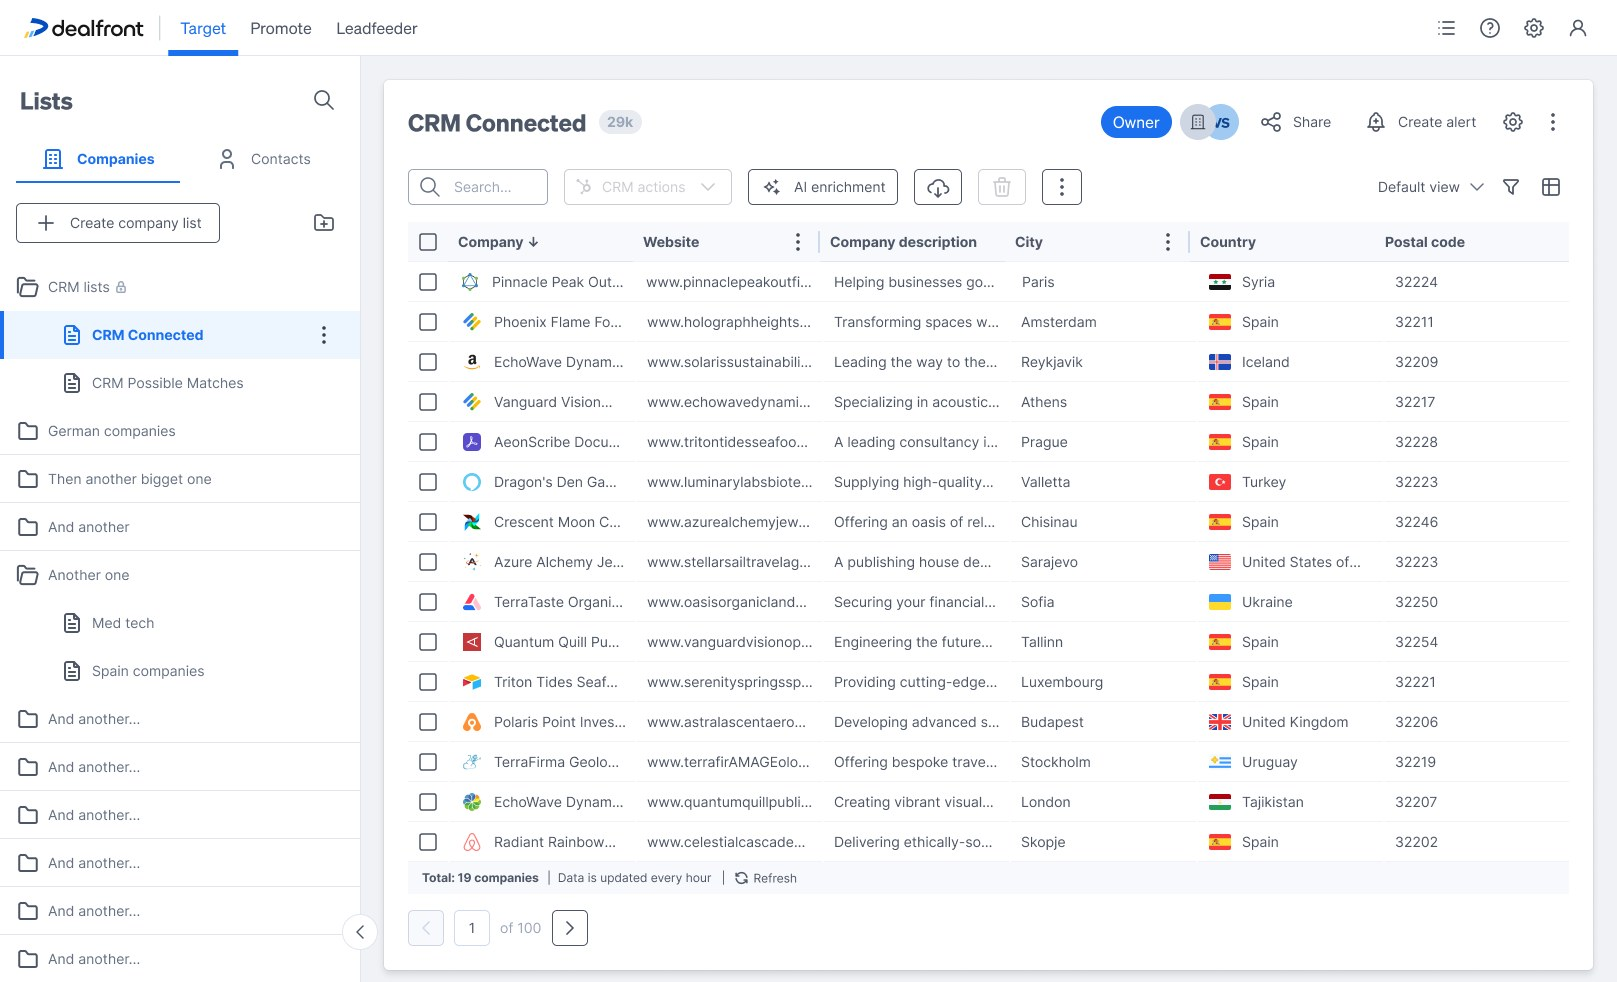
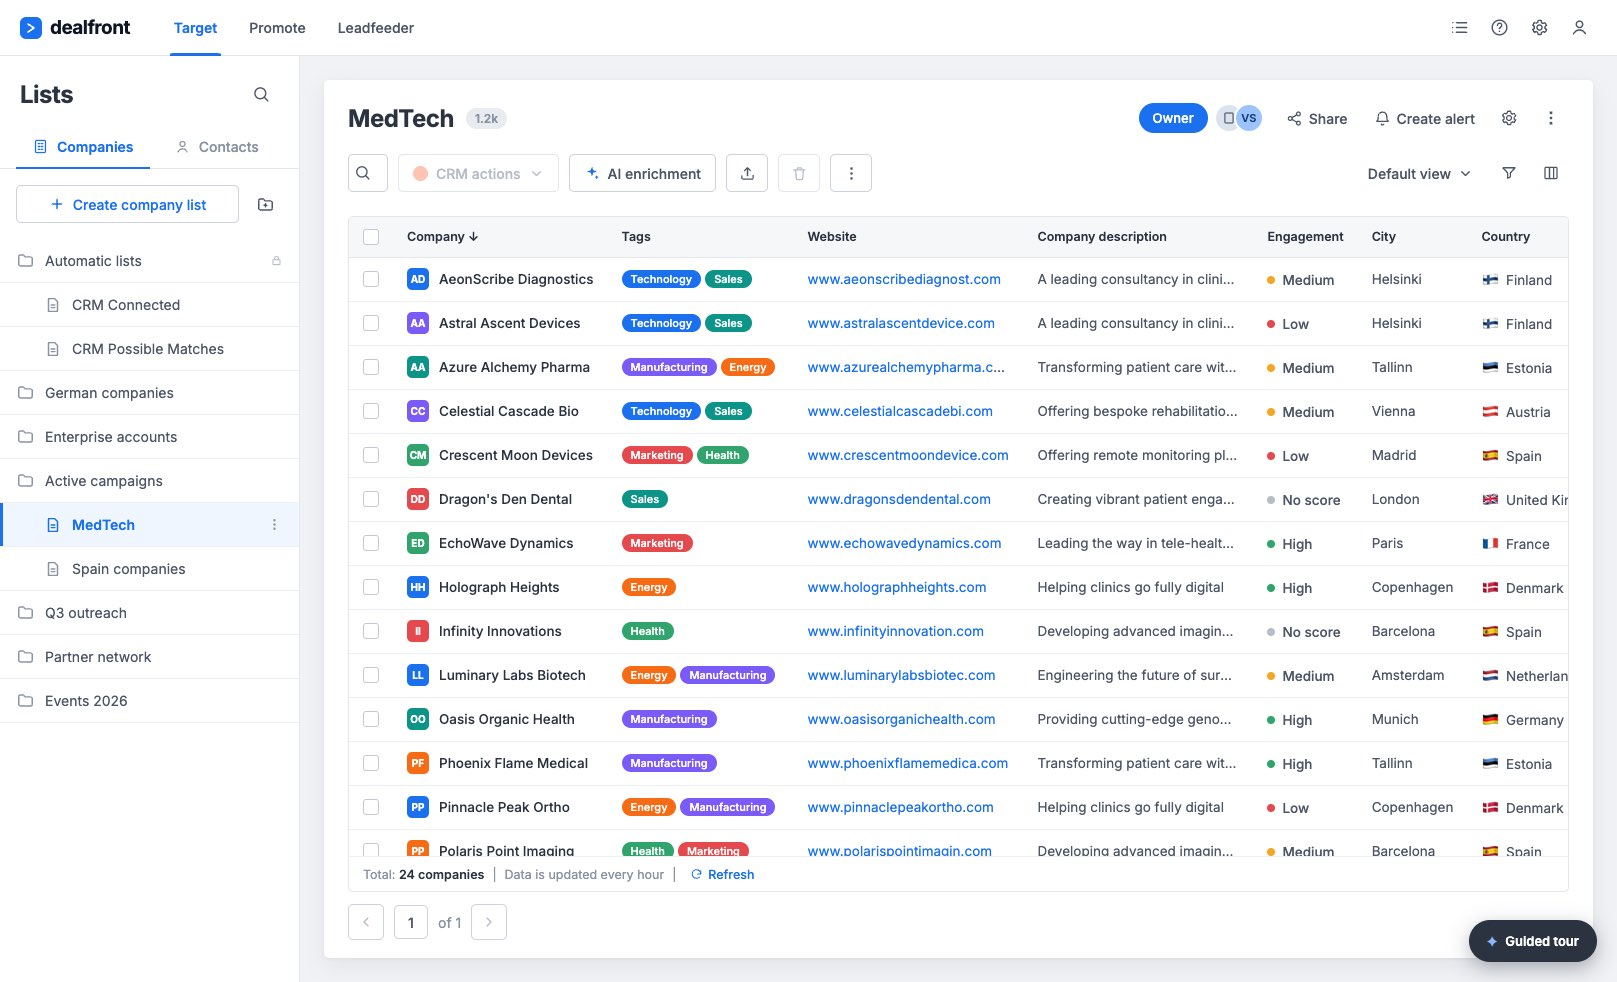
Dynamic Lists: put in Rock's answers, simpler summary
- Summary (lead, problem, decision, result) rewritten in short, plain words.
- Problem and decision now say why people made new lists and that
  automations did not work on the copies. Views keep them.
- Result says Views shipped. "No numbers I can share" removed.
- Facts: team is me, 1 PM and several developers. Tools: Figma, Claude.
- Learnings rewritten with Rock's facts. The working copy line is gone.
- New phone still: a fresh screenshot of the live demo.
- Removed the summary and result screenshots so CI makes new ones.

diff --git a/tests/case-dynamic-lists.spec.ts b/tests/case-dynamic-lists.spec.ts
@@ -113,7 +113,7 @@ test('decision 3: notes of parts on the right stay inside the picture', async ({
 test('result: outcome and what I learned', async ({ page }) => {
   await page.goto(PAGE);
   await expect(page.locator('#result [data-two-col] .k')).toHaveText(['outcome', 'what I learned']);
-  await expect(page.locator('#result [data-two-col] li')).toHaveCount(7);
+  await expect(page.locator('#result [data-two-col] li')).toHaveCount(5);
 });
 
 test('the old Webflow body is gone', async ({ page }) => {
